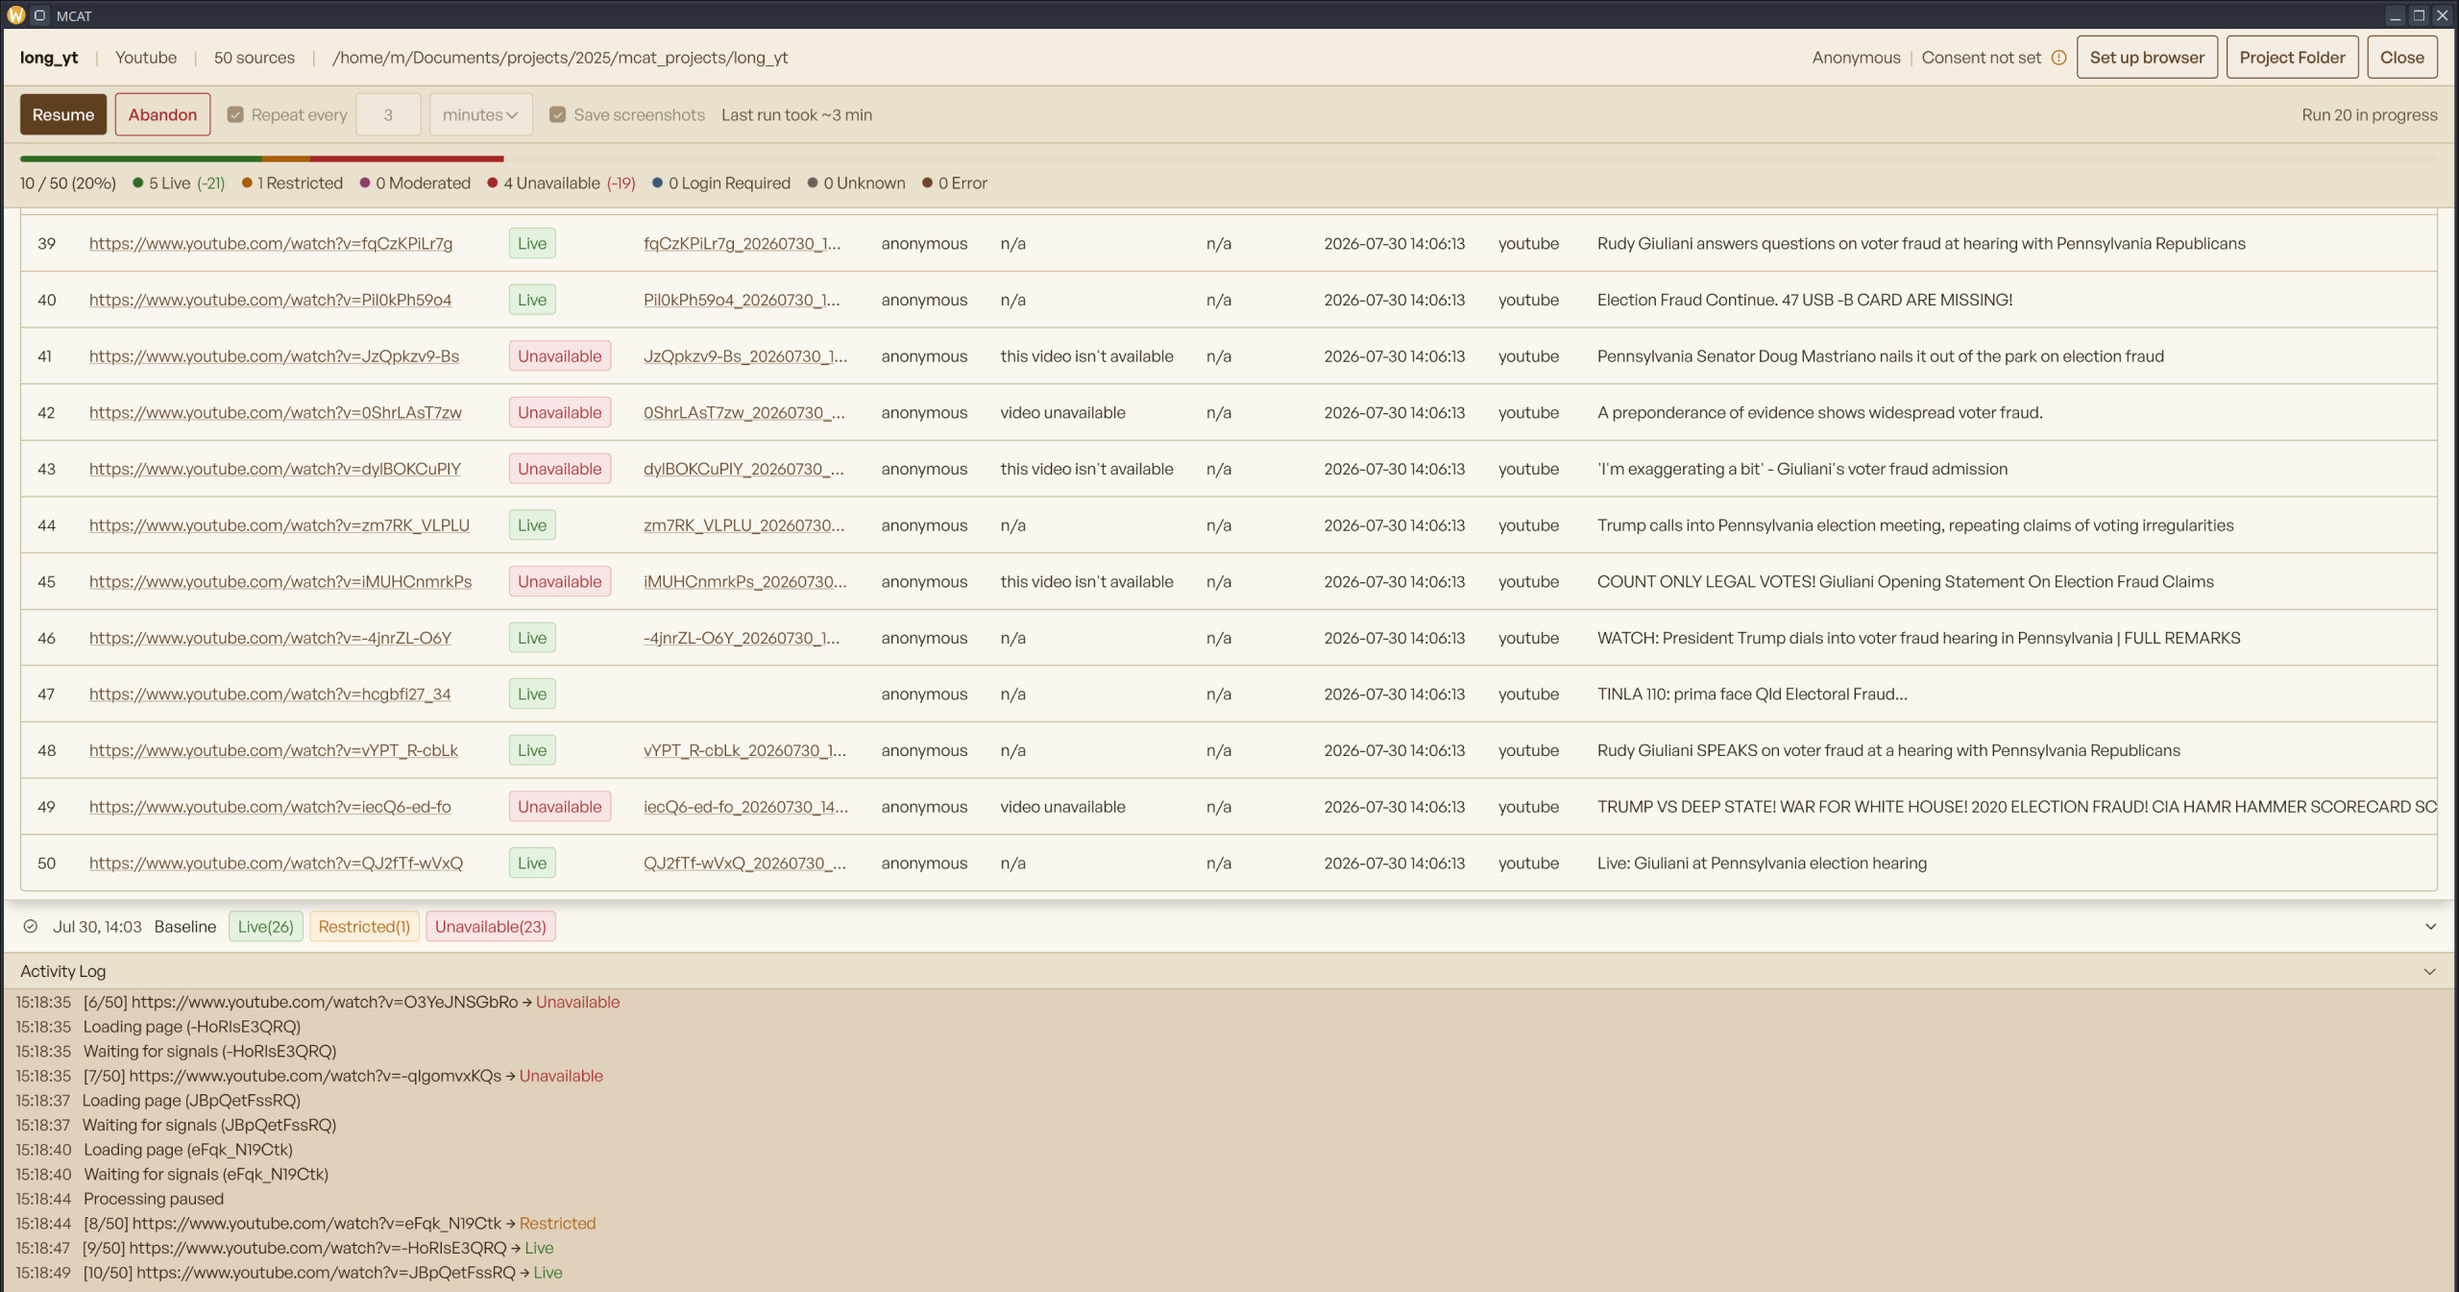
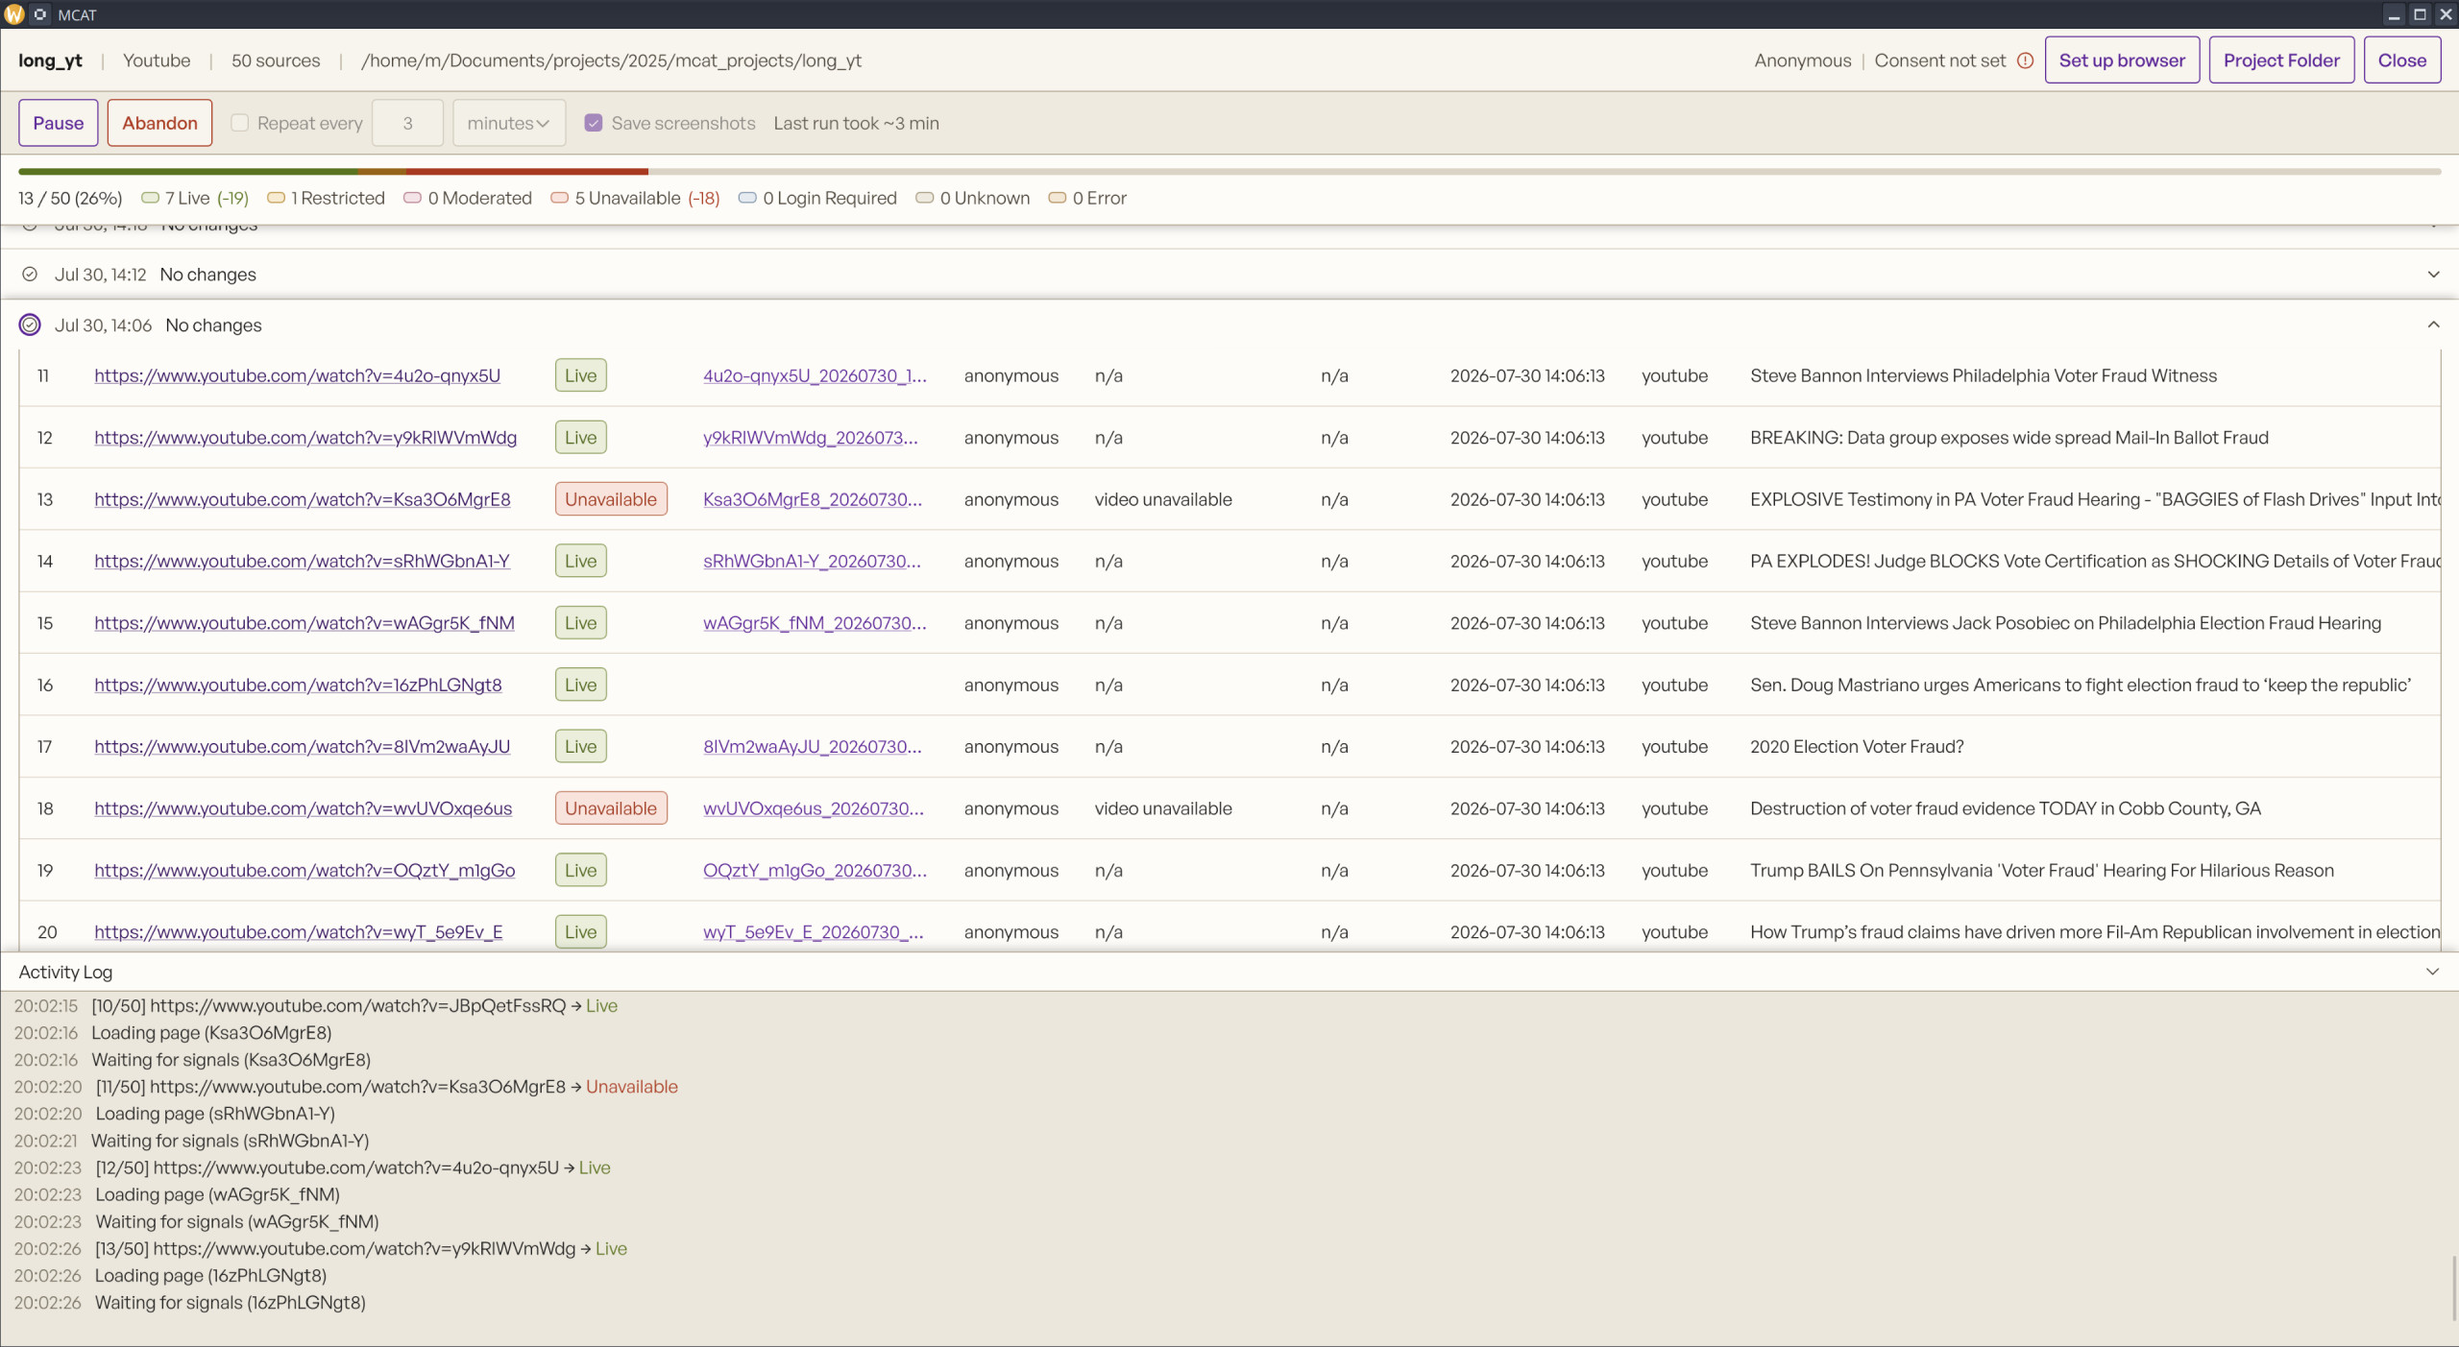
restyle website (purple theme, new pages, fixed-drawer docs TOC) and share theme tokens

diff --git a/packages/shared-ui/src/theme-brown.css b/packages/shared-ui/src/theme-brown.css
@@ -1,0 +1,122 @@
+/* MCAT theme — brown (warm cream surfaces, brown accent, blue links).
+   The original palette. Same token set as theme.css (purple); to use it,
+   point the app/website app.css @import at this file instead of theme.css.
+   Tokens the original brown theme lacked are derived from the brown palette
+   and marked "derived". */
+@theme {
+  /* ---- Backgrounds ---------------------------------------------------- */
+  --color-bg-primary: #FAF6F0;
+  --color-bg-toolbar: #F5EDE0;      /* project header, baseline strip     */
+  --color-bg-controls: #EAE0CE;
+  --color-bg-detail: #F3EDE4;
+  --color-bg-log: #E4D9C6;          /* derived — activity log panel       */
+  --color-bg-row-zebra: #F7F1E8;    /* derived — alternating table row    */
+  --color-bg-active: #EDE5D8;        /* derived — live / dynamic surface   */
+
+  /* ---- Borders -------------------------------------------------------- */
+  --color-border-light: #D6C7AE;
+  --color-border-mid: #C5B28C;
+  --color-border-input: #AC9468;
+  --color-border-row: #E2D6C0;      /* derived — lighter than border-light */
+
+  /* ---- Text ----------------------------------------------------------- */
+  --color-text-primary: #1A1209;
+  --color-text-body: #2A1E0E;
+  --color-text-secondary: #46341F;
+  --color-text-hint: #574230;
+
+  /* ---- Accents -------------------------------------------------------- */
+  --color-accent-primary: #5E3F20;
+  --color-accent-primary-hover: #4A3018; /* derived — darker accent       */
+  --color-accent-secondary: #C9A96E;
+  --color-accent-secondary-bg: #EDE5D8;
+  --color-accent-tab-active: #E8DCC8;
+  --color-link: #234E76;
+  --color-link-hover: #183A5C;      /* derived — darker link              */
+
+  /* ---- Window chrome (derived) ---------------------------------------- */
+  --color-chrome: #2A1E0E;
+  --color-chrome-text: #EAE0CE;
+  --color-chrome-control: #C5B28C;
+
+  /* ---- Status: text + solid fill -------------------------------------- */
+  --color-status-live: #2F6B22;
+  --color-status-restricted: #A85E08;
+  --color-status-moderated: #8A3D6B;
+  --color-status-unavailable: #A52727;
+  --color-status-login: #3A5A78;
+  --color-status-unknown: #6E6258;
+  --color-status-error: #6B472A;
+  --color-status-removed: #A52727;
+
+  /* ---- Status pills: fill + border + label (label derived = status) --- */
+  --color-badge-live-bg: #E5F2E0;
+  --color-badge-live-border: #B8D8AD;
+  --color-badge-live-text: #2F6B22;
+
+  --color-badge-restricted-bg: #FDF0DD;
+  --color-badge-restricted-border: #F0D4A0;
+  --color-badge-restricted-text: #A85E08;
+
+  --color-badge-moderated-bg: #F3E5EF;
+  --color-badge-moderated-border: #DCB8D0;
+  --color-badge-moderated-text: #8A3D6B;
+
+  --color-badge-unavailable-bg: #F8E5E5;
+  --color-badge-unavailable-border: #E8B8B8;
+  --color-badge-unavailable-text: #A52727;
+
+  --color-badge-login-bg: #E5ECF3;
+  --color-badge-login-border: #B8CCDC;
+  --color-badge-login-text: #3A5A78;
+
+  --color-badge-unknown-bg: #ECE8E0;
+  --color-badge-unknown-border: #CFC6B6;
+  --color-badge-unknown-text: #6E6258;
+
+  --color-badge-error-bg: #F2EAE4;
+  --color-badge-error-border: #DCC8B4;
+  --color-badge-error-text: #6B472A;
+
+  /* removed — alias of unavailable */
+  --color-badge-removed-bg: #F8E5E5;
+  --color-badge-removed-border: #E8B8B8;
+  --color-badge-removed-text: #A52727;
+
+  /* ---- Diff ----------------------------------------------------------- */
+  --color-diff-added-mark: #C6E6BC;
+  --color-diff-added-text: #1E3A18;
+  --color-diff-removed-mark: #F3C6C6;
+  --color-diff-removed-text: #5C1E1E;
+
+  /* ---- Destructive (derived — = status-removed) ----------------------- */
+  --color-danger-text: #A52727;
+  --color-danger-border: #A52727;
+  --color-danger-bg: #FAF6F0;
+
+  /* ---- Console / log -------------------------------------------------- */
+  --color-console-timestamp: #46341F;
+  --color-console-text: #2A1E0E;     /* derived — = text-body             */
+  --color-console-warning-count: #8A4422;
+
+  /* ---- Progress ------------------------------------------------------- */
+  --color-progress-track: #E8DCC8;
+
+  /* ---- Interactive states --------------------------------------------- */
+  --color-interactive-hover: #EDE5D8;
+  --color-interactive-active: #5A3E20;
+  --color-interactive-primary: #5F4325;
+  --color-interactive-input: #F0E8DA;
+  --color-interactive-danger: #F5E8E8;
+
+  /* ---- Timeline ------------------------------------------------------- */
+  --color-bg-timeline: #E0D1BC;
+  --color-timeline-dot: #5A3F22;
+  --color-timeline-dot-muted: #AC9468;
+  --color-timeline-dot-abandoned: #C5B28C;
+  --color-timeline-axis: #C4AD8A;
+
+  /* ---- Radii ---------------------------------------------------------- */
+  --radius-pill: 5px;
+  --radius-pill-lg: 6px;
+}

diff --git a/packages/shared-ui/src/theme.css b/packages/shared-ui/src/theme.css
@@ -33,6 +33,8 @@
   --color-accent-primary: #5A2596;      /* buttons, checkboxes, active tab */
   --color-accent-primary-hover: #4A1D7D;
   --color-accent-secondary: #D18F0C;    /* logo mark, small warm marks     */
+  --color-accent-secondary-bg: #F7EBD2; /* derived — light gold surface     */
+  --color-accent-tab-active: #EDE4F7;   /* derived — active tab (= bg-active) */
   --color-link: #33125E;                /* darker than accent-primary      */
   --color-link-hover: #240D45;
 
@@ -67,6 +69,11 @@
   --color-badge-unavailable-bg: #F8E4DD;
   --color-badge-unavailable-border: #C4836A;
   --color-badge-unavailable-text: #9C3319;
+
+  /* removed — alias of unavailable */
+  --color-badge-removed-bg: #F8E4DD;
+  --color-badge-removed-border: #C4836A;
+  --color-badge-removed-text: #9C3319;
 
   --color-badge-login-bg: #E6EBF1;
   --color-badge-login-border: #8397AD;
@@ -103,8 +110,8 @@
   /* ---- Interactive states --------------------------------------------- */
   --color-interactive-hover: #F3EDE2;
   --color-interactive-active: #4A1D7D;
+  --color-interactive-primary: #4A1D7D; /* derived — = accent-primary-hover  */
   --color-interactive-input: #FEFCF8;
-  --color-interactive-row: #F6F2E9;
 
   /* ---- Radii ---------------------------------------------------------- */
   --radius-pill: 5px;               /* status pills in dense table rows   */
@@ -113,5 +120,8 @@
   /* ---- Retained; still referenced by app code (theme2 dropped them) --- */
   --color-bg-timeline: #EDE4F7;         /* timeline / start / wizard surface — light purple */
   --color-timeline-dot: #161616;        /* running / stop icons — black       */
+  --color-timeline-dot-muted: #5F594D;     /* derived — muted dot (= text-hint)  */
+  --color-timeline-dot-abandoned: #B6AC99; /* derived — abandoned (= border-mid) */
+  --color-timeline-axis: #DAD3C6;          /* derived — axis line (= border-light) */
   --color-interactive-danger: #F5E8E8;  /* danger-button hover tint           */
 }

diff --git a/packages/website/src/lib/components/Nav.svelte b/packages/website/src/lib/components/Nav.svelte
@@ -13,27 +13,25 @@
   let { links, currentPath, orientation = 'horizontal', class: className }: Props = $props();
 
   const path = $derived(currentPath.slice(base.length) || '/');
-  const isActive = (href: string) =>
-    href === '/' ? path === '/' : path.startsWith(href);
+  const isActive = (href: string) => (href === '/' ? path === '/' : path.startsWith(href));
 </script>
 
 <nav class={className}>
   <ul
     class={cn(
-      'flex list-none gap-3',
-      orientation === 'horizontal' ? 'items-center' : 'flex-col items-start',
+      'flex list-none',
+      orientation === 'vertical'
+        ? 'flex-col items-start gap-3'
+        : 'w-full flex-wrap items-center justify-center gap-x-6 gap-y-2',
     )}
   >
-    {#each links as { label, href }, i (href)}
-      {#if i > 0 && orientation === 'horizontal'}
-        <li aria-hidden="true" class="text-text-hint">|</li>
-      {/if}
+    {#each links as { label, href } (href)}
       <li>
         <a
           href={base + href}
           class={cn(
-            'text-text-body hover:text-text-primary',
-            isActive(href) && 'text-text-primary underline underline-offset-4',
+            'inline-block border-b-2 border-transparent pb-[2.5px] text-lg text-text-body hover:border-accent-primary hover:text-text-primary',
+            isActive(href) && 'border-accent-primary text-text-primary',
           )}
         >
           {label}

diff --git a/packages/website/src/lib/components/Footer.svelte b/packages/website/src/lib/components/Footer.svelte
@@ -1,13 +1,15 @@
 <script lang="ts">
   import { Link } from '@mcat/shared-ui';
+
+  const year = new Date().getFullYear();
 </script>
 
-<footer class="border-t border-border-light">
+<footer class="relative border-t border-border-light bg-bg-toolbar">
   <div
-    class="mx-auto flex max-w-5xl items-center justify-center gap-4 px-4 py-1 text-text-secondary"
+    class="mx-auto flex max-w-5xl flex-wrap items-center justify-center gap-x-4 gap-y-1 px-4 py-2 text-text-secondary"
   >
+    <Link href="https://www.digitalmethods.net/">DMI {year}</Link>
     <Link href="https://github.com/Amsterdam-Humanities-Labs/MCAT">GitHub</Link>
-    <span aria-hidden="true" class="text-text-hint">|</span>
-    <Link href="https://eupl.eu/1.2/en/">EUPL v1.2</Link>
+    <Link href="https://eupl.eu/1.2/en/">License</Link>
   </div>
 </footer>

diff --git a/packages/website/src/routes/+layout.svelte b/packages/website/src/routes/+layout.svelte
@@ -21,10 +21,15 @@
 
 <Head meta={page.data.meta} pathname={page.url.pathname} />
 
-<div class="flex min-h-screen flex-col">
-  <header class="sticky top-0 z-40 border-b border-border-light bg-bg-primary">
+<div class="flex min-h-screen flex-col bg-bg-controls">
+  <header class="sticky top-0 z-40 border-b border-border-light bg-bg-toolbar">
     <div class="mx-auto flex max-w-5xl items-center justify-between px-4 py-3">
-      <a href="{base}/" class="text-lg font-medium text-accent-primary"> MCAT </a>
+      <a
+        href="{base}/"
+        class="inline-block border-b-2 border-transparent pb-[2.5px] text-[22px] font-medium text-text-primary hover:border-accent-primary"
+      >
+        MCAT
+      </a>
 
       <Nav links={navLinks} currentPath={page.url.pathname} class="hidden md:block" />
 

diff --git a/packages/website/src/routes/+page.svelte b/packages/website/src/routes/+page.svelte
@@ -6,9 +6,6 @@
   import type { PageData } from './$types';
 
   let { data }: { data: PageData } = $props();
-
-  const downloadUrl =
-    'https://github.com/Amsterdam-Humanities-Labs/MCAT/releases/latest/download/MCAT-macOS-arm64.zip';
 </script>
 
 <section class="flex flex-col gap-8">
@@ -22,7 +19,7 @@
     <H1>{data.headline}</H1>
     <P>{data.tagline}</P>
     <div class="flex flex-wrap gap-3">
-      <Button href={downloadUrl} variant="primary">Download for macOS</Button>
+      <Button href="{base}/download" variant="primary">Download</Button>
       <Button href="{base}/docs" variant="secondary">Documentation</Button>
     </div>
   </div>

diff --git a/packages/website/src/routes/sitemap.xml/+server.ts b/packages/website/src/routes/sitemap.xml/+server.ts
@@ -1,0 +1,21 @@
+import { site } from '$lib/seo';
+import { base } from '$app/paths';
+
+export const prerender = true;
+
+// Every page on the site. Add new top-level routes here.
+const routes = ['/', '/download', '/docs', '/policies', '/about'];
+
+export function GET() {
+  const urls = routes
+    .map((r) => `  <url><loc>${site.url}${base}${r}</loc></url>`)
+    .join('\n');
+
+  const xml = `<?xml version="1.0" encoding="UTF-8"?>
+<urlset xmlns="http://www.sitemaps.org/schemas/sitemap/0.9">
+${urls}
+</urlset>
+`;
+
+  return new Response(xml, { headers: { 'Content-Type': 'application/xml' } });
+}

diff --git a/packages/website/src/lib/mdsvex/Layout.svelte b/packages/website/src/lib/mdsvex/Layout.svelte
@@ -6,6 +6,7 @@
   export { default as h3 } from '$components/H3.svelte';
   export { default as p } from '$components/P.svelte';
   export { default as ul } from '$components/Ul.svelte';
+  export { default as ol } from '$components/Ol.svelte';
   export { default as li } from '$components/Li.svelte';
   export { Link as a } from '@mcat/shared-ui';
 </script>
@@ -14,6 +15,6 @@
   let { children } = $props();
 </script>
 
-<article class="flex flex-col gap-4 [&_h1]:pt-8 [&_h2]:pt-6 [&_h3]:pt-4">
+<article class="flex flex-col gap-4 [&_h2]:pt-6 [&_h3]:pt-4">
   {@render children()}
 </article>

diff --git a/packages/website/src/routes/docs/+layout.svelte b/packages/website/src/routes/docs/+layout.svelte
@@ -31,11 +31,13 @@
 </script>
 
 {#if showToc}
-  <TocPanel bind:expanded={tocExpanded} topOffset={headerHeight}>
-    <TableOfContents {headings} activeId={spy.activeId} />
-  </TocPanel>
-  <div bind:this={contentEl}>
-    {@render children()}
+  <div class="relative">
+    <TocPanel bind:expanded={tocExpanded} topOffset={headerHeight}>
+      <TableOfContents {headings} activeId={spy.activeId} />
+    </TocPanel>
+    <div bind:this={contentEl}>
+      {@render children()}
+    </div>
   </div>
 {:else}
   {@render children()}

diff --git a/packages/website/src/lib/components/TocToggle.svelte b/packages/website/src/lib/components/TocToggle.svelte
@@ -14,7 +14,7 @@
 <button
   {onclick}
   class={cn(
-    'flex h-[45px] w-[30px] items-center justify-center rounded-r-full border border-l-0 border-border-light bg-bg-primary pr-1 text-text-secondary hover:bg-interactive-hover',
+    'flex h-[30px] w-[30px] items-center justify-center rounded-r-pill border border-border-light bg-bg-toolbar text-text-secondary hover:bg-accent-primary hover:text-chrome-text',
     className,
   )}
   aria-label={expanded ? 'Collapse contents' : 'Expand contents'}

diff --git a/packages/website/src/lib/components/TocItem.svelte b/packages/website/src/lib/components/TocItem.svelte
@@ -16,9 +16,9 @@
   <a
     {href}
     class={cn(
-      'block py-1 text-text-secondary hover:text-text-primary',
-      depth === 3 && 'pl-4',
-      active && 'text-text-primary underline underline-offset-4',
+      'inline-block border-b-2 border-transparent pb-[2.5px] text-lg text-text-secondary hover:border-accent-primary hover:text-text-primary',
+      depth === 3 && 'ml-4',
+      active && 'border-accent-primary text-text-primary',
     )}
   >
     {@render children()}

diff --git a/packages/website/src/lib/components/TocPanel.svelte b/packages/website/src/lib/components/TocPanel.svelte
@@ -20,7 +20,7 @@
 
 <div
   class={cn(
-    'fixed left-0 z-30 w-72 border-r border-border-light bg-bg-primary shadow-[5px_0_20px_5px_rgba(0,0,0,0.07)] transition-transform duration-200 ease-out',
+    'fixed left-0 w-72 border-r border-border-light bg-bg-toolbar shadow-[5px_0_20px_5px_rgba(0,0,0,0.07)] transition-transform duration-200 ease-out',
     expanded ? 'translate-x-0' : '-translate-x-full',
   )}
   style="top: {topOffset}px; height: calc(100dvh - {topOffset}px);"
